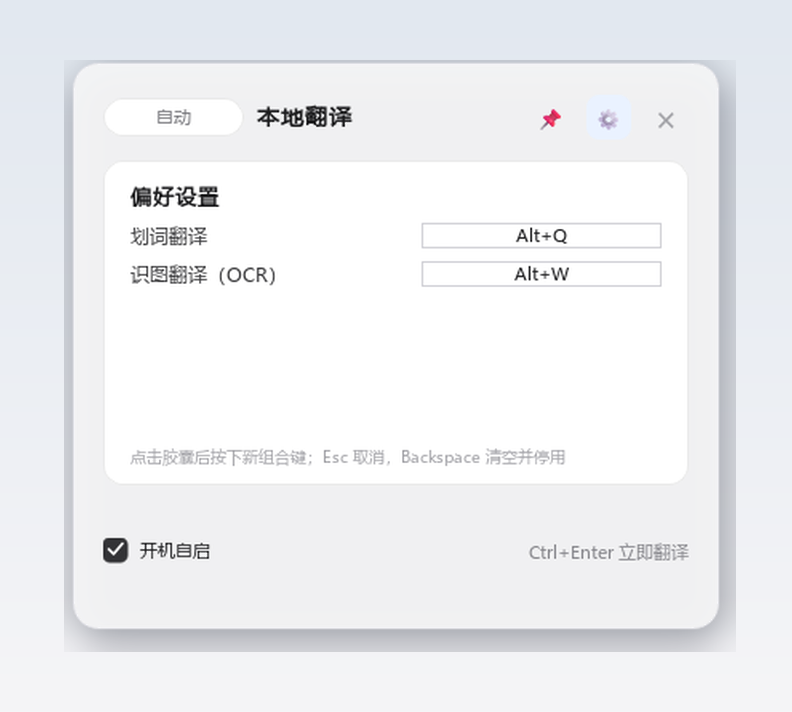
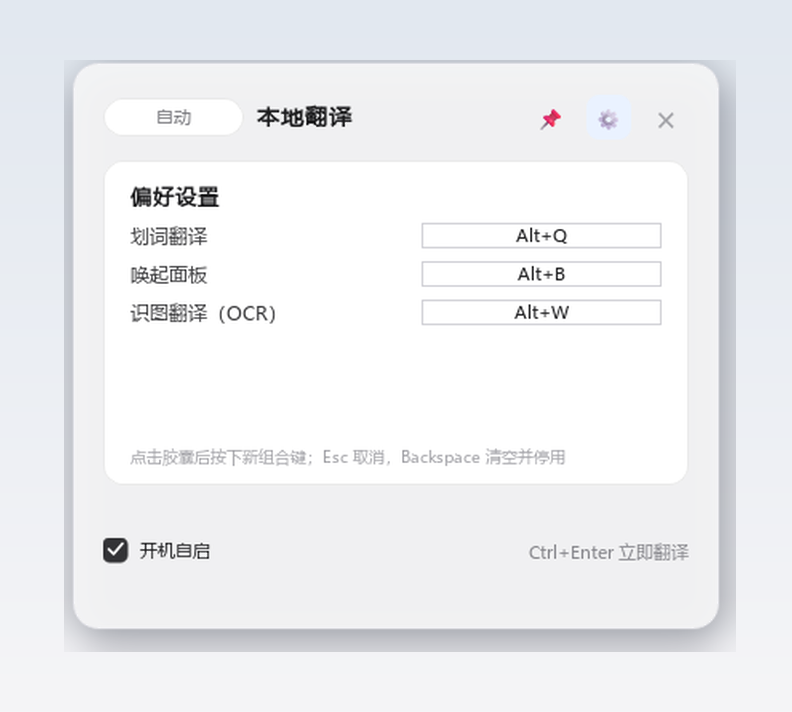
Improve direction-switching clarity and add summon-panel hotkey (Alt+B)

Changed region(s): [[0.1515, 0.3708, 0.3636, 0.4635], [0.6364, 0.4326, 0.7273, 0.4635], [0.6364, 0.3708, 0.7273, 0.4017]]

diff --git a/bubble/app.py b/bubble/app.py
@@ -99,6 +99,15 @@ RUN_VALUE_NAME = "LocalTranslateBubble"
 DIRECTION_STATES = ("auto", "zh-en", "en-zh")
 
 
+def _text_looks_chinese(text: str) -> bool:
+    """简化的中英文判别（与引擎 _is_chinese 的 30% 规则一致），用于自动档方向提示。"""
+    body = (text or "").replace(" ", "").replace("\n", "").replace("\t", "")
+    if not body:
+        return False
+    cjk = sum(1 for ch in body if "\u4e00" <= ch <= "\u9fff" or "\u3400" <= ch <= "\u4dbf")
+    return cjk / len(body) > 0.3
+
+
 class WindowsMessage(ctypes.Structure):
     _fields_ = [
         ("hwnd", wintypes.HWND),
@@ -549,7 +558,7 @@ class BubbleWindow(QWidget):
     ocr_requested = Signal()
     settings_requested = Signal()
 
-    BUBBLE_TIP = "本地翻译：点击输入 · Alt+Q 划词 · Alt+W 截图"
+    BUBBLE_TIP = "本地翻译：点击输入 · Alt+Q 划词 · Alt+W 截图 · Alt+B 唤起面板"
 
     MARGIN = 12                    # 每侧透明边距（容纳阴影 + 浮动位移空间）
     VISUAL_SIZE = 44               # 气泡视觉盒边长（原 88 的一半）
@@ -1124,6 +1133,7 @@ class PanelWindow(QWidget):
             return recorder
 
         self.translate_recorder = _hotkey_row("划词翻译", "translate")
+        self.show_recorder = _hotkey_row("唤起面板", "show")
         self.ocr_recorder = _hotkey_row("识图翻译（OCR）", "ocr")
 
         self.hotkey_hint = QLabel(self.settings_card)
@@ -1258,6 +1268,17 @@ class PanelWindow(QWidget):
     def direction_state(self) -> str:
         return DIRECTION_STATES[self._direction_index]
 
+    def update_auto_direction_hint(self, text: str) -> None:
+        """自动档下把当前判定方向透出在药丸上（自动 → 英 / 自动 → 中），消除方向困惑。"""
+        if DIRECTION_STATES[self._direction_index] != "auto":
+            return
+        if not text.strip():
+            self.language.setText("自动")
+        elif _text_looks_chinese(text):
+            self.language.setText("自动 → 中")
+        else:
+            self.language.setText("自动 → 英")
+
     # ── 视图切换 / 图钉 / 快捷键显示 ────────────────────────
 
     @property
@@ -1276,8 +1297,12 @@ class PanelWindow(QWidget):
         self.gear_button.style().polish(self.gear_button)
 
     def set_hotkey_display(self, action: str, text: str) -> None:
-        recorder = self.translate_recorder if action == "translate" else self.ocr_recorder
-        recorder.set_display(text)
+        recorders = {
+            "translate": self.translate_recorder,
+            "show": self.show_recorder,
+            "ocr": self.ocr_recorder,
+        }
+        recorders[action].set_display(text)
 
     def set_conflict_hint(self, message: str) -> None:
         if message:
@@ -1631,11 +1656,13 @@ class NativeTranslator:
         if not text:
             self.debounce.stop()
             self.panel.set_translation("")
+            self.panel.update_auto_direction_hint("")
             if self.supervisor.is_ready:
                 self.set_status("")
             else:
                 self.set_status("正在唤醒本地 GGUF 模型…")
             return
+        self.panel.update_auto_direction_hint(text)
         if not self.supervisor.is_running:
             self.supervisor.ensure_running()
         self.set_status("翻译中…" if self.supervisor.is_ready else "正在唤醒本地 GGUF 模型…")
@@ -1714,8 +1741,13 @@ class NativeTranslator:
         self.request_id += 1
         self.debounce.stop()
         self.panel.set_translation("")
-        if self.panel.source.toPlainText().strip():
-            self.schedule_translation()
+        text = self.panel.source.toPlainText().strip()
+        if not text:
+            self.panel.update_auto_direction_hint("")
+            return
+        self.panel.update_auto_direction_hint(text)
+        # 切换方向后立即重译（不等 600ms 防抖），避免"切了没反应"的困惑
+        self.start_translation()
 
     # ── 划词捕获 ─────────────────────────────────────────────
 
@@ -1725,6 +1757,12 @@ class NativeTranslator:
             self.start_capture()
         elif action == "ocr":
             self.start_ocr()
+        elif action == "show":
+            # 迅速唤起：面板显示中则收起，否则立即唤起（保留上次状态）
+            if self.panel.isVisible():
+                self.hide_panel()
+            else:
+                self.open_panel()
 
     def start_capture(self) -> None:
         if self.capture_thread and self.capture_thread.isRunning():
@@ -1843,6 +1881,7 @@ class NativeTranslator:
     def apply_hotkeys(self) -> None:
         self._hotkey_status = self.hotkeys.reconfigure(
             str(self.settings.get("hotkey") or ""),
+            str(self.settings.get("show_hotkey") or ""),
             str(self.settings.get("ocr_hotkey") or ""),
             bool(self.settings.get("ocr_enabled")),
         )
@@ -1854,11 +1893,14 @@ class NativeTranslator:
             "translate", str(self.settings.get("hotkey_display") or "未设置")
         )
         self.panel.set_hotkey_display(
+            "show", str(self.settings.get("show_hotkey_display") or "未设置")
+        )
+        self.panel.set_hotkey_display(
             "ocr", str(self.settings.get("ocr_hotkey_display") or "未设置")
         )
 
     def _refresh_hotkey_hint(self) -> None:
-        names = {"translate": "划词翻译", "ocr": "识图翻译"}
+        names = {"translate": "划词翻译", "show": "唤起面板", "ocr": "识图翻译"}
         failed = [names.get(action, action) for action, ok in self._hotkey_status.items() if not ok]
         if failed:
             self.panel.set_conflict_hint("快捷键冲突，请更换组合：" + "、".join(failed))
@@ -1889,16 +1931,16 @@ class NativeTranslator:
     @Slot(str, str)
     def on_hotkey_recorded(self, action: str, expr: str) -> None:
         expr = (expr or "").strip()
-        if action == "translate":
-            updates = {
-                "hotkey": expr,
-                "hotkey_display": hotkey_display_from_expression(expr) or "未设置",
-            }
-        else:
-            updates = {
-                "ocr_hotkey": expr,
-                "ocr_hotkey_display": hotkey_display_from_expression(expr) or "未设置",
-            }
+        key_map = {
+            "translate": ("hotkey", "hotkey_display"),
+            "show": ("show_hotkey", "show_hotkey_display"),
+            "ocr": ("ocr_hotkey", "ocr_hotkey_display"),
+        }
+        key, display_key = key_map[action]
+        updates = {
+            key: expr,
+            display_key: hotkey_display_from_expression(expr) or "未设置",
+        }
         try:
             self.settings.save(updates)
         except OSError:

diff --git a/tests/test_local_translate.py b/tests/test_local_translate.py
@@ -177,7 +177,7 @@ class NativeUiTests(unittest.TestCase):
                 patch.object(ui, "cleanup_legacy_autostart", lambda: None), \
                 patch.object(ui, "set_autostart", lambda _enabled: None), \
                 patch.object(ui, "is_autostart_enabled", lambda: False), \
-                patch.object(ui.HotkeyManager, "reconfigure", lambda self, *a, **k: {"translate": True, "ocr": True}):
+                patch.object(ui.HotkeyManager, "reconfigure", lambda self, *a, **k: {"translate": True, "show": True, "ocr": True}):
             self.controller = ui.NativeTranslator(self.qt_app)
 
     def tearDown(self):
@@ -350,7 +350,8 @@ class NativeUiTests(unittest.TestCase):
             return controller.settings.snapshot()
 
         with patch.object(controller.settings, "save", side_effect=fake_save), \
-                patch.object(controller.hotkeys, "reconfigure", return_value={"translate": True, "ocr": True}):
+                patch.object(controller.hotkeys, "reconfigure",
+                             return_value={"translate": True, "show": True, "ocr": True}):
             controller.on_hotkey_recorded("translate", "<alt>+q")
         self.assertEqual(saved.get("hotkey"), "<alt>+q")
         self.assertEqual(saved.get("hotkey_display"), "Alt+Q")
@@ -358,15 +359,25 @@ class NativeUiTests(unittest.TestCase):
         self.assertTrue(controller.panel.hotkey_hint.isHidden())
 
         with patch.object(controller.settings, "save", side_effect=fake_save), \
-                patch.object(controller.hotkeys, "reconfigure", return_value={"translate": True, "ocr": False}):
+                patch.object(controller.hotkeys, "reconfigure",
+                             return_value={"translate": True, "show": True, "ocr": True}):
+            controller.on_hotkey_recorded("show", "<alt>+b")
+        self.assertEqual(saved.get("show_hotkey"), "<alt>+b")
+        self.assertEqual(saved.get("show_hotkey_display"), "Alt+B")
+        self.assertEqual(controller.panel.show_recorder.text(), "Alt+B")
+
+        with patch.object(controller.settings, "save", side_effect=fake_save), \
+                patch.object(controller.hotkeys, "reconfigure",
+                             return_value={"translate": True, "show": True, "ocr": False}):
             controller.on_hotkey_recorded("ocr", "<ctrl>+<shift>+s")
         self.assertFalse(controller.panel.hotkey_hint.isHidden())
         self.assertIn("快捷键冲突，请更换组合", controller.panel.hotkey_hint.text())
 
     def test_hotkey_reconfigure_supports_empty_disable(self):
         manager = ui.HotkeyManager()
-        result = manager.reconfigure("", "", True)
+        result = manager.reconfigure("", "", "", True)
         self.assertTrue(result["translate"])
+        self.assertTrue(result["show"])
         self.assertEqual(manager._bindings, {})
         manager.unregister_all()
 

diff --git a/bubble/hotkey_manager.py b/bubble/hotkey_manager.py
@@ -28,6 +28,7 @@ MOD_NOREPEAT = 0x4000
 
 HOTKEY_ID_TRANSLATE = 1
 HOTKEY_ID_OCR = 2
+HOTKEY_ID_SHOW = 3
 
 user32.RegisterHotKey.argtypes = (wintypes.HWND, ctypes.c_int, wintypes.UINT, wintypes.UINT)
 user32.RegisterHotKey.restype = wintypes.BOOL
@@ -146,7 +147,7 @@ class HotkeyManager(QObject, QAbstractNativeEventFilter):
 
     # ── 注册管理 ─────────────────────────────────────────────
 
-    def reconfigure(self, translate_expr: str, ocr_expr: str, ocr_enabled: bool) -> dict:
+    def reconfigure(self, translate_expr: str, show_expr: str, ocr_expr: str, ocr_enabled: bool) -> dict:
         """按新配置重注册全部快捷键（注销旧键 → 注册新键）。
 
         返回 {action: 是否成功}；表达式留空视为"停用该动作"，记为成功。
@@ -154,6 +155,7 @@ class HotkeyManager(QObject, QAbstractNativeEventFilter):
         self.unregister_all()
         candidates = [
             ("translate", HOTKEY_ID_TRANSLATE, translate_expr),
+            ("show", HOTKEY_ID_SHOW, show_expr),
         ]
         if ocr_enabled:
             candidates.append(("ocr", HOTKEY_ID_OCR, ocr_expr))

diff --git a/bubble/settings_manager.py b/bubble/settings_manager.py
@@ -23,6 +23,8 @@ DEFAULT_AI_IDLE_MINUTES = 15
 DEFAULTS: Dict[str, Any] = {
     "hotkey": "<alt>+q",
     "hotkey_display": "Alt+Q",
+    "show_hotkey": "<alt>+b",
+    "show_hotkey_display": "Alt+B",
     "ocr_enabled": True,
     "ocr_hotkey": "<alt>+w",
     "ocr_hotkey_display": "Alt+W",
@@ -121,6 +123,13 @@ class SettingsManager(QObject):
         if "hotkey_display" not in raw_keys or not data.get("hotkey_display"):
             data["hotkey_display"] = (
                 hotkey_display_from_expression(data.get("hotkey") or "")
+                or "未设置"
+            )
+        if "show_hotkey" not in raw_keys:
+            data["show_hotkey"] = DEFAULTS["show_hotkey"]
+        if "show_hotkey_display" not in raw_keys or not data.get("show_hotkey_display"):
+            data["show_hotkey_display"] = (
+                hotkey_display_from_expression(data.get("show_hotkey") or "")
                 or "未设置"
             )
         if "ocr_hotkey" not in raw_keys:

diff --git a/scripts/generate_previews.py b/scripts/generate_previews.py
@@ -87,6 +87,7 @@ def main() -> int:
     panel.gear_button.setFont(symbol_font)
     panel.show_settings_view(True)
     panel.set_hotkey_display("translate", "Alt+Q")
+    panel.set_hotkey_display("show", "Alt+B")
     panel.set_hotkey_display("ocr", "Alt+W")
     app.processEvents()
     settings_img = qt_to_pil(panel.grab())

diff --git a/README_EN.md b/README_EN.md
@@ -55,6 +55,7 @@ no cloud, no telemetry, your text never leaves the machine.
 | Open the panel | Click the bubble | Bubble docks 16 px to the panel's right |
 | Selection translate | `Alt+Q` | Panel and bubble fly to the cursor, auto-filled and translated |
 | Screenshot OCR | `Alt+W` | Rounded full-screen selection, `Esc` to cancel |
+| Summon panel | `Alt+B` | Instantly show/hide the panel (state preserved) |
 | Pin panel | Title-bar 📌 | While pinned, clicking outside won't auto-hide |
 | Preferences | Title-bar ⚙ / right-click bubble | Record custom global hotkeys |
 
@@ -130,6 +131,7 @@ same scripts on a machine without `nvidia-smi` to get the universal CPU build.
 | Field | Default | Description |
 | --- | --- | --- |
 | `hotkey` / `hotkey_display` | `<alt>+q` / `Alt+Q` | Selection-translate hotkey (visual recorder via ⚙, empty = disabled) |
+| `show_hotkey` / `show_hotkey_display` | `<alt>+b` / `Alt+B` | Summon/hide the panel |
 | `ocr_enabled` / `ocr_hotkey` / `ocr_hotkey_display` | `true` / `<alt>+w` / `Alt+W` | Screenshot OCR translation |
 | `server_port` | `8989` | Local engine port (1024–65535; changing it restarts the engine) |
 | `acceleration_device` | `auto` | Inference device: auto / gpu / cpu |

diff --git a/README.md b/README.md
@@ -54,6 +54,7 @@
 | 打开翻译面板 | 点击气泡 | 气泡自动停靠面板右侧 16px |
 | 划词翻译 | `Alt+Q` | 面板与气泡飞至光标附近，自动填入并流式翻译 |
 | 截图 OCR 翻译 | `Alt+W` | 全屏圆角框选，Esc 取消 |
+| 唤起面板 | `Alt+B` | 迅速唤起/收起翻译面板（保留上次内容） |
 | 钉住面板 | 标题栏 📌 | 点亮后点击外部空白不自动收起 |
 | 偏好设置 | 标题栏 ⚙ / 右键气泡 | 录制自定义全局快捷键 |
 
@@ -128,6 +129,7 @@ PopTrans 指南安装 CPU 轮 `llama-cpp-python`）。
 | 字段 | 默认值 | 说明 |
 | --- | --- | --- |
 | `hotkey` / `hotkey_display` | `<alt>+q` / `Alt+Q` | 划词翻译快捷键（面板 ⚙ 可视化录制，留空停用） |
+| `show_hotkey` / `show_hotkey_display` | `<alt>+b` / `Alt+B` | 唤起/收起翻译面板快捷键 |
 | `ocr_enabled` / `ocr_hotkey` / `ocr_hotkey_display` | `true` / `<alt>+w` / `Alt+W` | 截图 OCR 翻译 |
 | `server_port` | `8989` | 本地引擎端口（1024–65535，改动自动重启引擎） |
 | `acceleration_device` | `auto` | 推理设备：auto / gpu / cpu |
